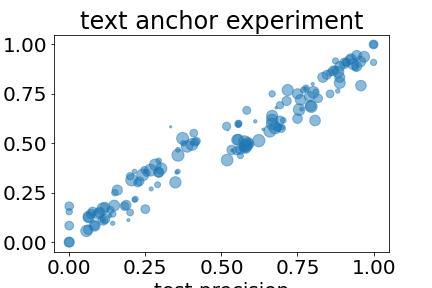
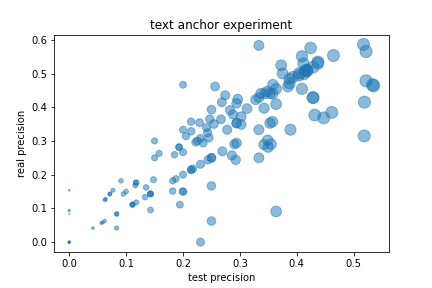
present results by test precision

diff --git a/myUtils.py b/myUtils.py
@@ -9,6 +9,18 @@ class MyExplanation:
         self.names =  exp.names()
         self.coverage = exp.coverage()
         self.precision = exp.precision()
+        
+class ExtendedExplanation:
+    def __init__(self, exp, test, test_labels, predict_sentences, explainer):
+        self.index = exp.index
+        self.fit_examples = exp.fit_examples
+        self.test_cov = exp.test_cov
+        self.names =  exp.names
+        self.coverage = exp.coverage
+        self.precision = exp.precision
+        exp_label =  predict_sentences([str(test[exp.index])])[0]
+        self.test_precision = np.mean(predict_sentences(test[exp.fit_examples]) == exp_label)
+        self.real_precision = np.mean(test_labels[exp.fit_examples] == explainer.class_names[predict_sentences([str(test[exp.index])])[0]])
 
 class TabularUtils:
     
